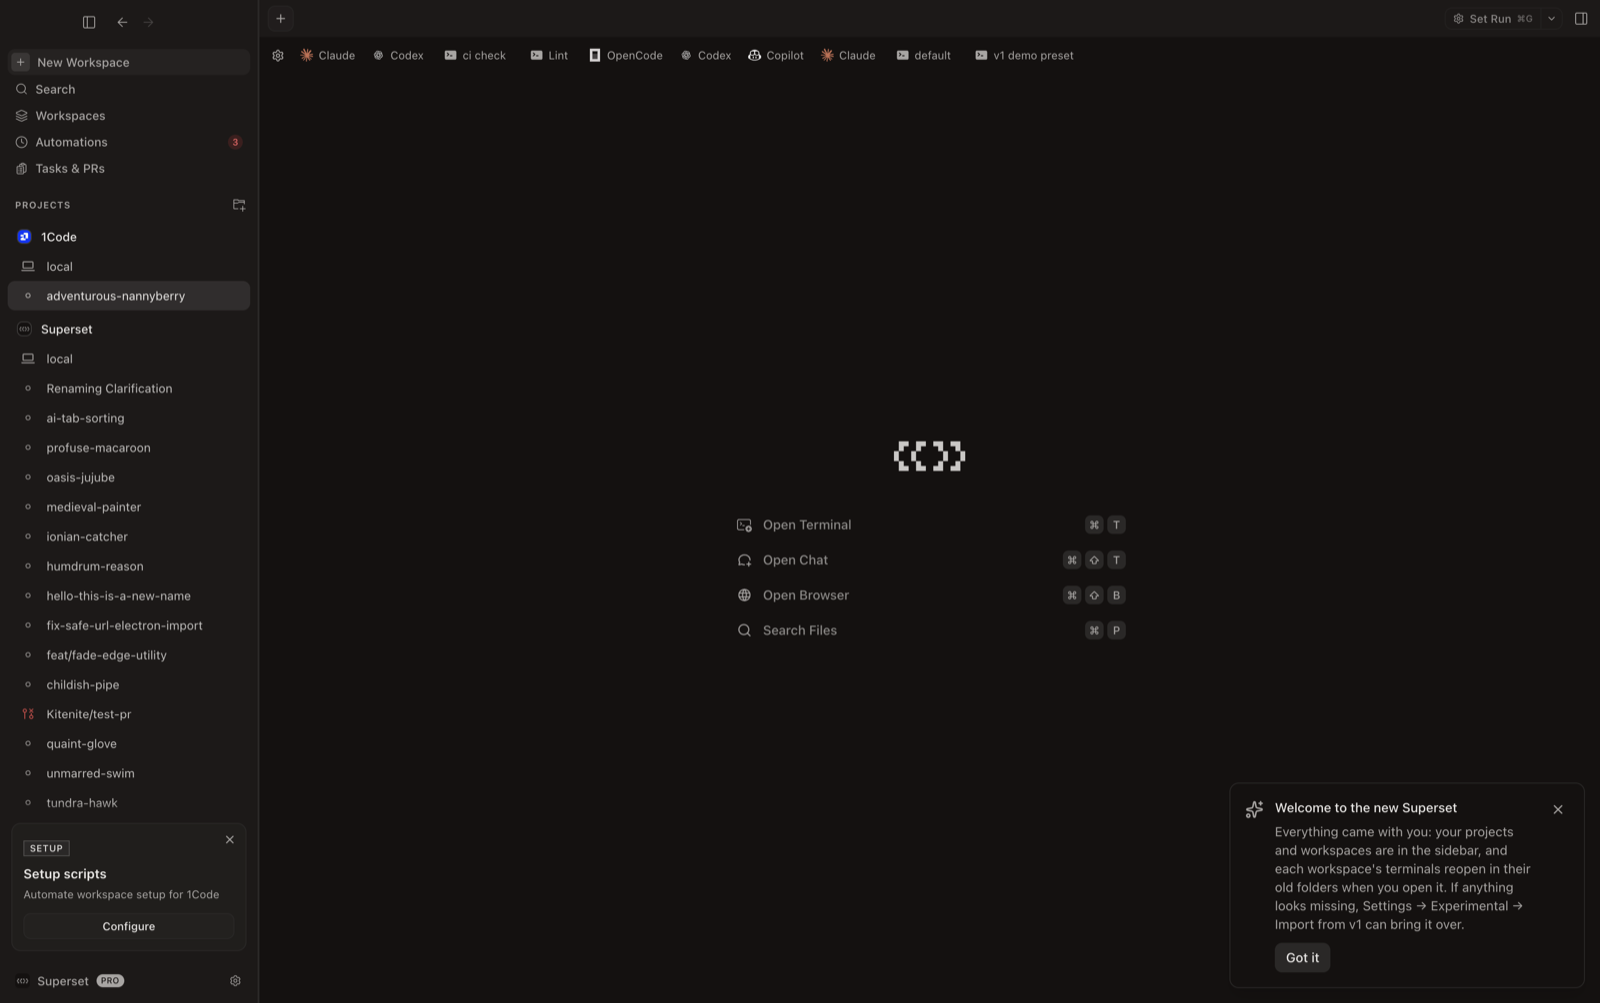
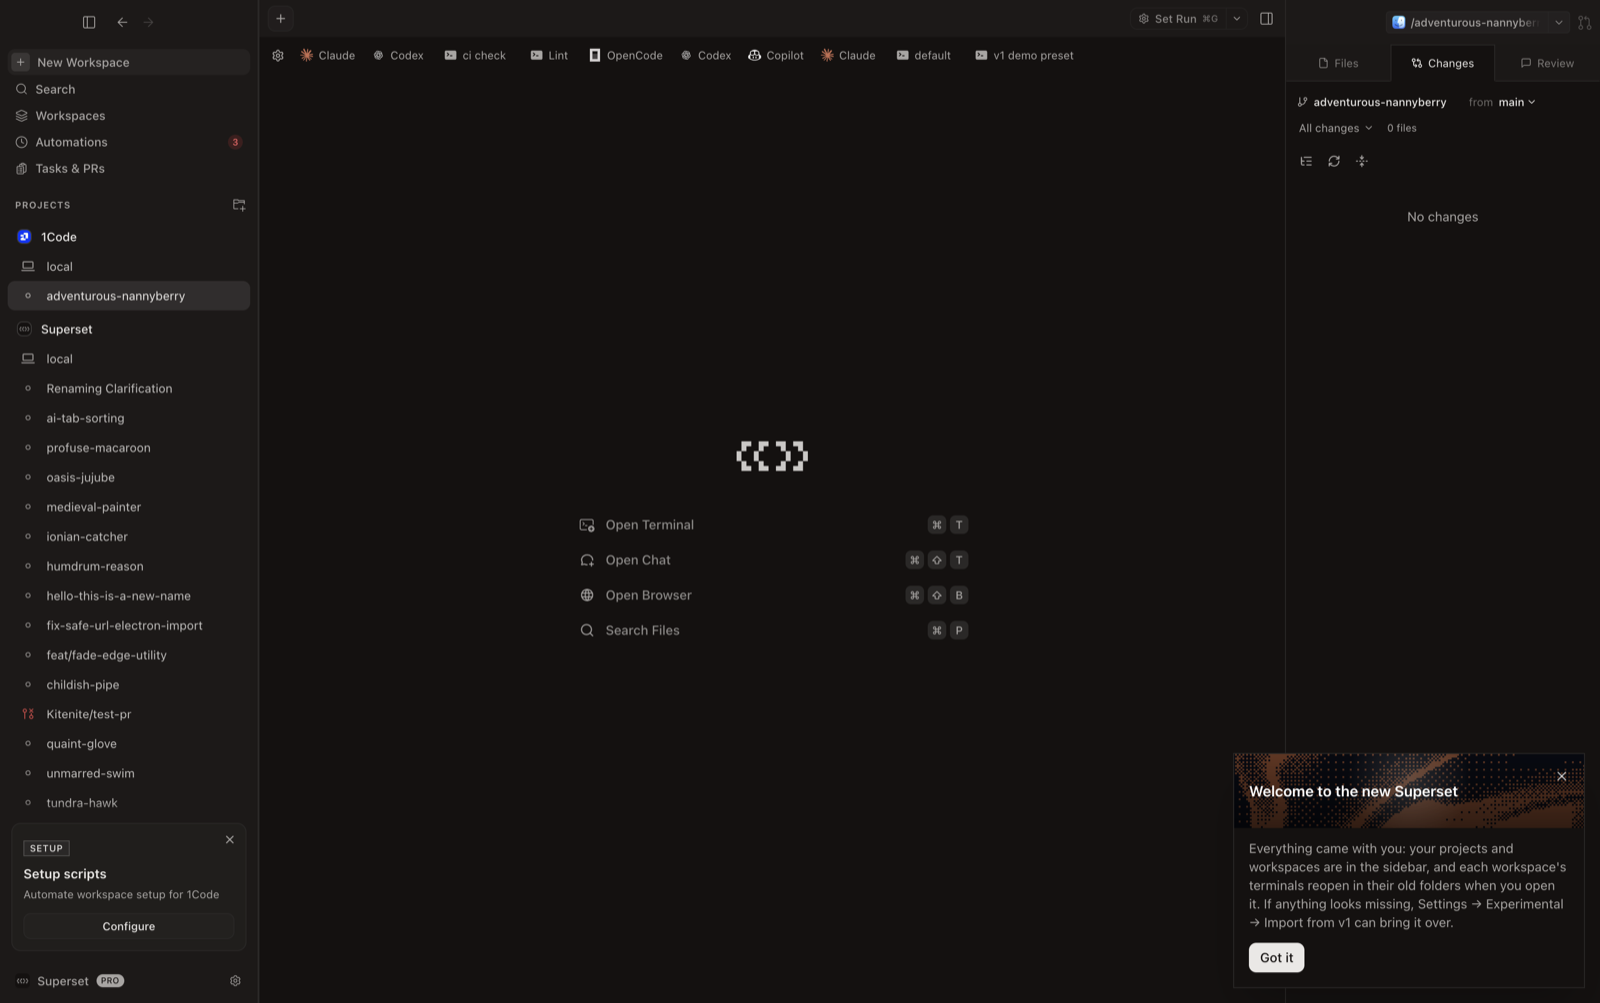
style(desktop): restyle flip cards to the import-wizard visual family
Shared FlipNoticeCard shell: dithered warm-gradient cover with the title
on it (WelcomePage's identity), sharp corners, isolated body, primary CTA
— reads as a milestone message instead of a transient toast. Screenshots
refreshed.

diff --git a/apps/desktop/src/renderer/routes/_authenticated/components/V1FlipNotice/V1FlipNotice.tsx b/apps/desktop/src/renderer/routes/_authenticated/components/V1FlipNotice/V1FlipNotice.tsx
@@ -1,5 +1,3 @@
-import { Button } from "@superset/ui/button";
-import { Sparkles, X } from "lucide-react";
 import { useEffect, useRef, useState } from "react";
 import { track } from "renderer/lib/analytics";
 import { authClient } from "renderer/lib/auth-client";
@@ -7,6 +5,7 @@ import {
 	isV1MigrationComplete,
 	V1_MIGRATION_COMPLETED_EVENT,
 } from "renderer/lib/v1-migration/completion";
+import { FlipNoticeCard } from "./components/FlipNoticeCard";
 
 /**
  * One-time heads-up shown on the v1 surface only once this machine is
@@ -45,43 +44,17 @@ export function V1FlipNotice() {
 
 	if (!visible) return null;
 
+	const dismiss = () => {
+		track("v1_flip_notice_dismissed");
+		setDismissed(true);
+	};
+
 	return (
-		<div className="fixed right-4 bottom-4 z-50 w-96 select-text rounded-lg border bg-background p-4 shadow-lg">
-			<div className="flex items-start gap-3">
-				<Sparkles className="mt-0.5 size-5 shrink-0 text-muted-foreground" />
-				<div className="min-w-0 space-y-1.5">
-					<p className="font-medium text-sm">The new Superset is ready</p>
-					<p className="text-muted-foreground text-sm">
-						Your projects and workspaces have been moved to the new Superset
-						experience. The next time you open the app, you'll see the new
-						interface, and your terminals will reopen in their old folders.
-						Terminal scrollback and v1 chat history don't carry over.
-					</p>
-					<div className="pt-1">
-						<Button
-							size="sm"
-							variant="secondary"
-							onClick={() => {
-								track("v1_flip_notice_dismissed");
-								setDismissed(true);
-							}}
-						>
-							Got it
-						</Button>
-					</div>
-				</div>
-				<button
-					type="button"
-					aria-label="Dismiss"
-					className="shrink-0 rounded p-1 text-muted-foreground hover:text-foreground"
-					onClick={() => {
-						track("v1_flip_notice_dismissed");
-						setDismissed(true);
-					}}
-				>
-					<X className="size-4" />
-				</button>
-			</div>
-		</div>
+		<FlipNoticeCard
+			title="The new Superset is ready"
+			body="Your projects and workspaces have been moved to the new Superset experience. The next time you open the app, you'll see the new interface, and your terminals will reopen in their old folders. Terminal scrollback and v1 chat history don't carry over."
+			ctaLabel="Got it"
+			onDismiss={dismiss}
+		/>
 	);
 }

diff --git a/apps/desktop/src/renderer/routes/_authenticated/components/V1FlipNotice/components/FlipNoticeCard/FlipNoticeCard.tsx b/apps/desktop/src/renderer/routes/_authenticated/components/V1FlipNotice/components/FlipNoticeCard/FlipNoticeCard.tsx
@@ -1,0 +1,70 @@
+import { Button } from "@superset/ui/button";
+import { X } from "lucide-react";
+import { lazy, Suspense } from "react";
+
+const Dithering = lazy(() =>
+	import("@paper-design/shaders-react").then((mod) => ({
+		default: mod.Dithering,
+	})),
+);
+
+/** Same warm ramp as the import wizard's WelcomePage — one visual family. */
+const COVER_FRONT = "#f97316";
+
+interface FlipNoticeCardProps {
+	title: string;
+	body: string;
+	ctaLabel: string;
+	onDismiss: () => void;
+}
+
+/**
+ * Shared shell for the pre-flip notice and post-flip welcome: the import
+ * wizard's dithered-cover identity (WelcomePage) compressed into a
+ * corner card. Sharp corners and a cover headline read as a milestone
+ * message, not a transient toast.
+ */
+export function FlipNoticeCard({
+	title,
+	body,
+	ctaLabel,
+	onDismiss,
+}: FlipNoticeCardProps) {
+	return (
+		<div className="fixed right-4 bottom-4 z-50 w-[380px] select-text overflow-hidden rounded-none border bg-background shadow-2xl">
+			<div className="relative h-20 bg-[#080a12]">
+				<div className="pointer-events-none absolute inset-0 opacity-40 mix-blend-screen">
+					<Suspense fallback={null}>
+						<Dithering
+							colorBack="#00000000"
+							colorFront={COVER_FRONT}
+							shape="warp"
+							type="4x4"
+							speed={0.15}
+							className="size-full"
+							minPixelRatio={1}
+						/>
+					</Suspense>
+				</div>
+				<div className="pointer-events-none absolute inset-0 bg-[radial-gradient(circle_at_50%_35%,rgba(255,255,255,0.14),transparent_34%),linear-gradient(to_bottom,rgba(0,0,0,0.04),rgba(0,0,0,0.5))]" />
+				<div className="absolute inset-0 flex items-center px-4">
+					<p className="font-semibold text-base text-white">{title}</p>
+				</div>
+				<button
+					type="button"
+					aria-label="Dismiss"
+					className="absolute top-3 right-3 rounded-none p-1 text-white/70 hover:text-white"
+					onClick={onDismiss}
+				>
+					<X className="size-4" />
+				</button>
+			</div>
+			<div className="space-y-3 p-4 pt-3">
+				<p className="text-muted-foreground text-sm">{body}</p>
+				<Button size="sm" onClick={onDismiss}>
+					{ctaLabel}
+				</Button>
+			</div>
+		</div>
+	);
+}

diff --git a/apps/desktop/src/renderer/routes/_authenticated/components/V1FlipNotice/V2FlipWelcome.tsx b/apps/desktop/src/renderer/routes/_authenticated/components/V1FlipNotice/V2FlipWelcome.tsx
@@ -1,5 +1,3 @@
-import { Button } from "@superset/ui/button";
-import { Sparkles, X } from "lucide-react";
 import { useEffect, useRef, useState } from "react";
 import { track } from "renderer/lib/analytics";
 import { authClient } from "renderer/lib/auth-client";
@@ -7,6 +5,7 @@ import {
 	consumeV1WelcomePending,
 	isV1WelcomePending,
 } from "renderer/lib/v1-migration/completion";
+import { FlipNoticeCard } from "./components/FlipNoticeCard";
 
 /**
  * Post-flip counterpart to V1FlipNotice: orients migrated users on their
@@ -40,32 +39,11 @@ export function V2FlipWelcome() {
 	};
 
 	return (
-		<div className="fixed right-4 bottom-4 z-50 w-96 select-text rounded-lg border bg-background p-4 shadow-lg">
-			<div className="flex items-start gap-3">
-				<Sparkles className="mt-0.5 size-5 shrink-0 text-muted-foreground" />
-				<div className="min-w-0 space-y-1.5">
-					<p className="font-medium text-sm">Welcome to the new Superset</p>
-					<p className="text-muted-foreground text-sm">
-						Everything came with you: your projects and workspaces are in the
-						sidebar, and each workspace's terminals reopen in their old folders
-						when you open it. If anything looks missing, Settings → Experimental
-						→ Import from v1 can bring it over.
-					</p>
-					<div className="pt-1">
-						<Button size="sm" variant="secondary" onClick={dismiss}>
-							Got it
-						</Button>
-					</div>
-				</div>
-				<button
-					type="button"
-					aria-label="Dismiss"
-					className="shrink-0 rounded p-1 text-muted-foreground hover:text-foreground"
-					onClick={dismiss}
-				>
-					<X className="size-4" />
-				</button>
-			</div>
-		</div>
+		<FlipNoticeCard
+			title="Welcome to the new Superset"
+			body="Everything came with you: your projects and workspaces are in the sidebar, and each workspace's terminals reopen in their old folders when you open it. If anything looks missing, Settings → Experimental → Import from v1 can bring it over."
+			ctaLabel="Got it"
+			onDismiss={dismiss}
+		/>
 	);
 }

diff --git a/apps/desktop/src/renderer/routes/_authenticated/components/V1FlipNotice/components/FlipNoticeCard/index.ts b/apps/desktop/src/renderer/routes/_authenticated/components/V1FlipNotice/components/FlipNoticeCard/index.ts
@@ -1,0 +1,1 @@
+export { FlipNoticeCard } from "./FlipNoticeCard";
